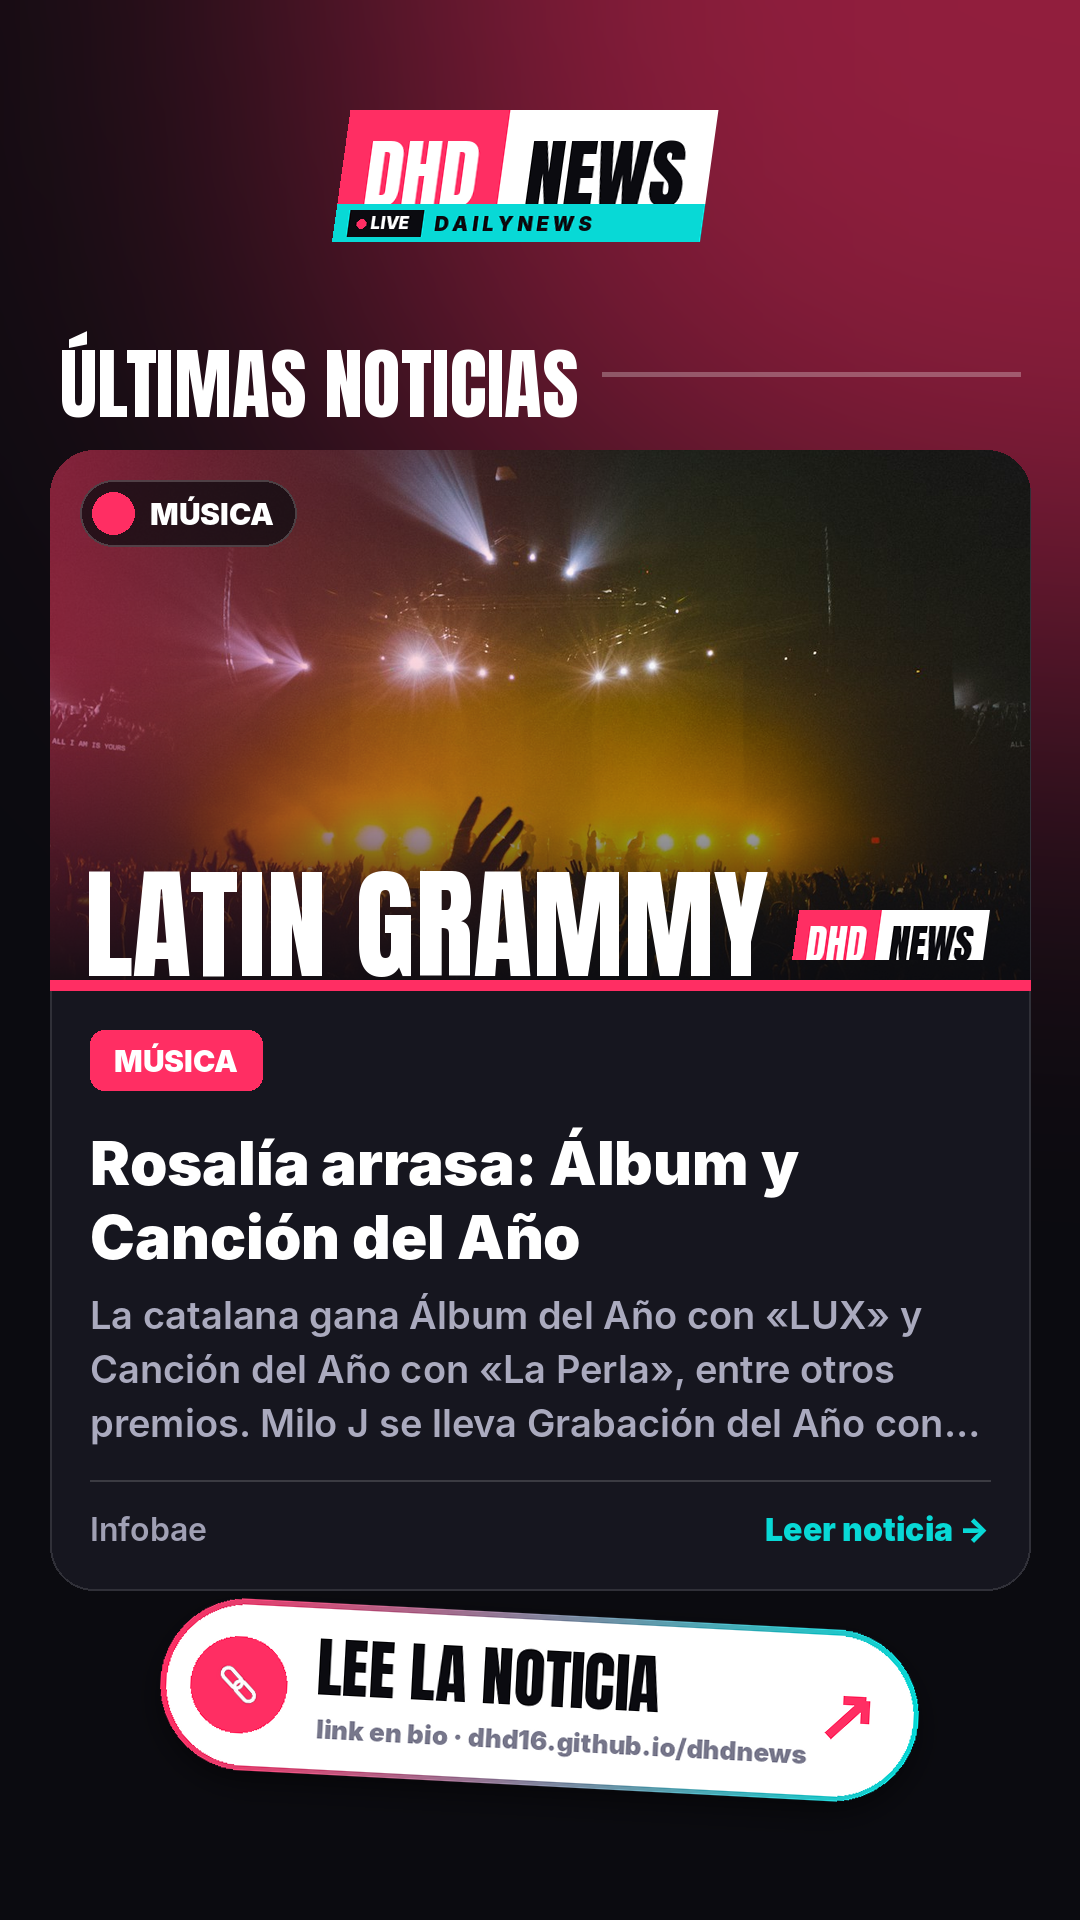
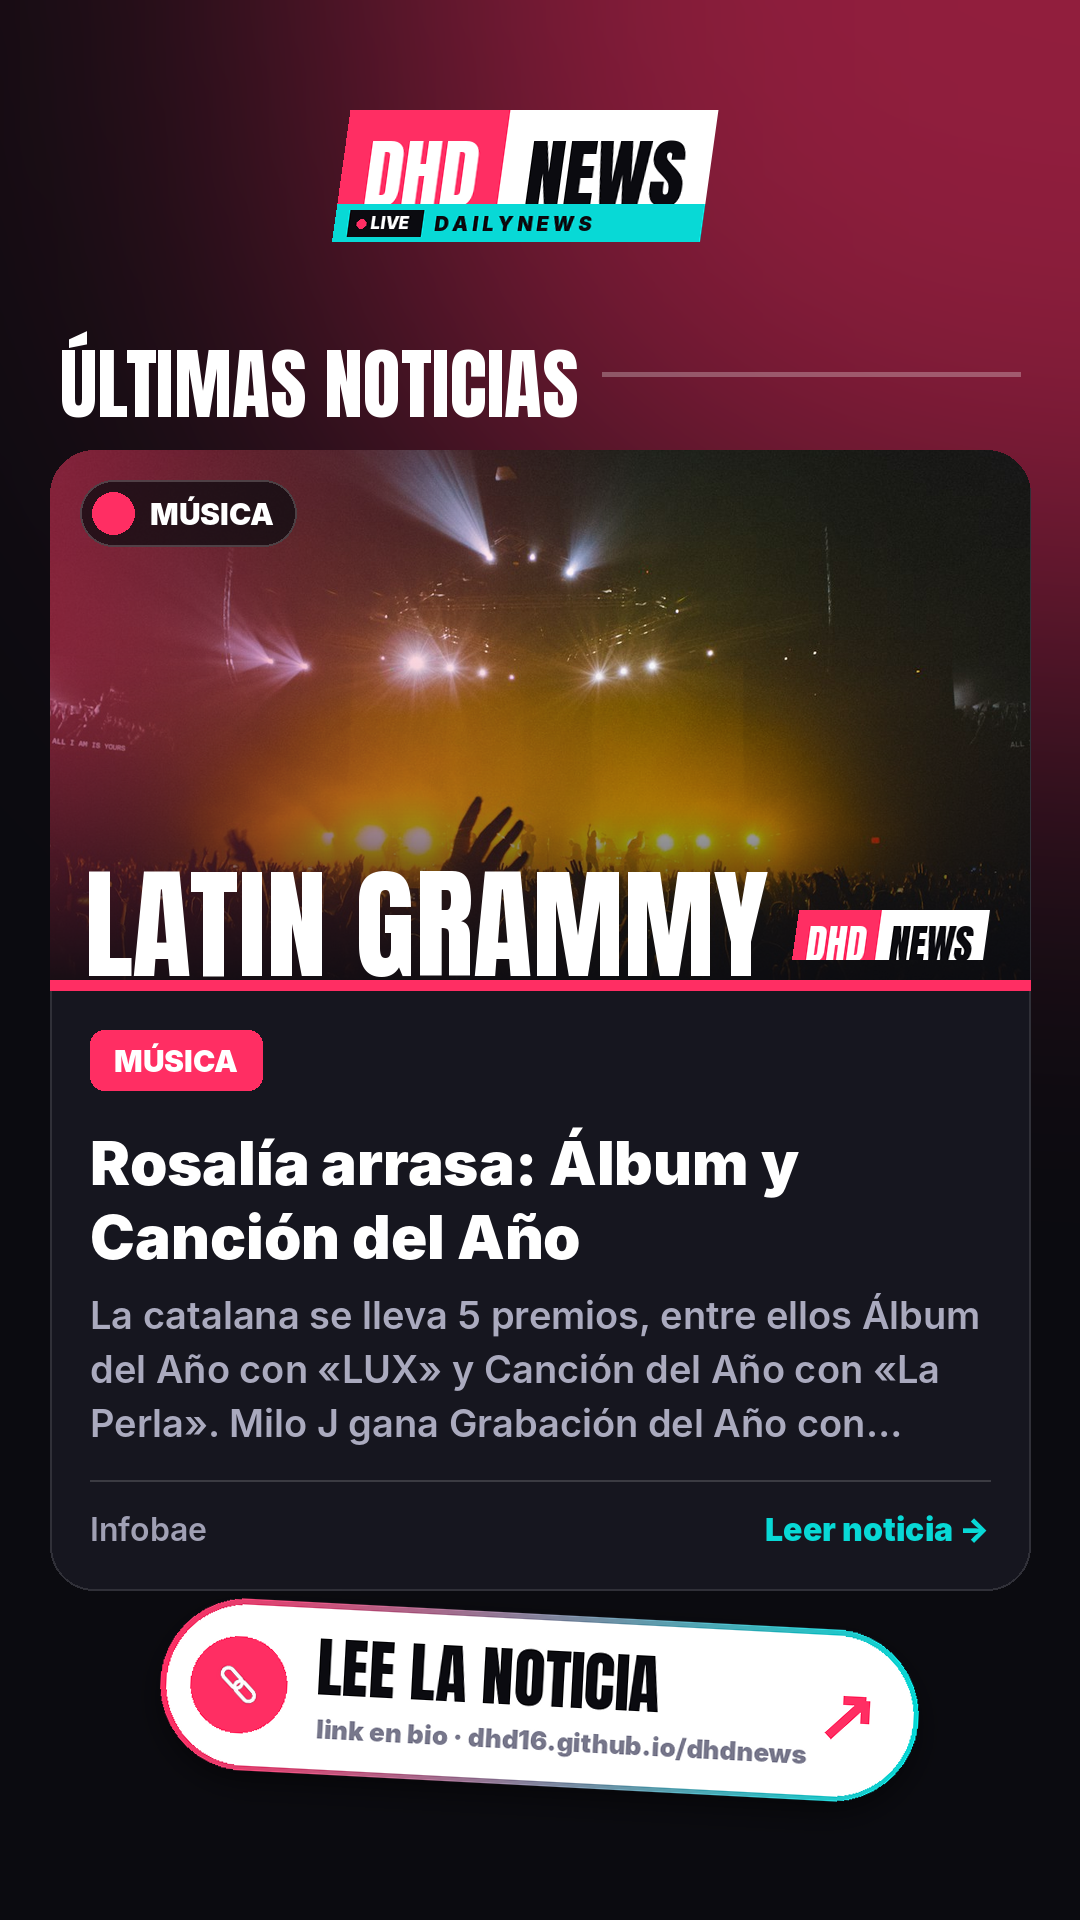
Top 10 2026-11-13

Changed region(s): [[0.0917, 0.6562, 0.8861, 0.75]]

diff --git a/contenido/2026-11-13.md b/contenido/2026-11-13.md
@@ -1,0 +1,36 @@
+# DHDNEWS · Dailynews — 13/11/2026
+
+## Post de Instagram
+🏆 Rosalía arrasa en los Latin Grammy
+
+1⃣ 🎤 Rosalía: Álbum y Canción del Año con «LUX» y «La Perla»
+2⃣ 💻 Caída mundial de Microsoft: Outlook y Teams, KO
+3⃣ ⚽ España gana 0-2 en Praga y sigue con pleno
+4⃣ 🎶 Alejandro Sanz y Yerai Cortés, también premiados
+5⃣ 🌴 Coachella 2027, a la venta hoy con Bad Gyal
+6⃣ 🎮 GTA 6 ya se puede precargar: sale el 19
+7⃣ 📺 La Séptima cierra su 1ª semana con un 3,5%
+8⃣ 🎤 Stray Kids llenarán el Olímpic en 2027
+9⃣ 🕹 Adiós a la app de PS Plus para PC
+🔟 💍 Lambda García anuncia su compromiso
+
+Top 10 completo: link en bio 👉 dhd16.github.io/dhdnews
+
+#DHDNEWS #noticias #LatinGrammy #Rosalia #LUX #Microsoft #GTA6 #LaRoja #Coachella #LaSeptima #musica #gaming
+
+## Carrusel de TikTok (10:42, 8 fotos)
+Título: Rosalía arrasa en los Latin Grammy 🏆
+Texto:
+Rosalía arrasa en los Latin Grammy 🏆 y Microsoft se cae en medio mundo.
+¿Cuál te ha sorprendido más? Comenta el número 👇
+Desliza para el top 5 · Top 10 completo: link en bio
+#DHDNEWS #noticias #LatinGrammy #Rosalia #Microsoft #GTA6
+
+## Guion vídeo resumen (45-60 s)
+- (0-5 s) "¡Rosalía arrasa en los Latin Grammy! Esto es DHDNEWS, tu top del viernes."
+- (5-15 s) "La catalana se lleva Álbum del Año con «LUX» y Canción del Año con «La Perla». Milo J gana Grabación del Año con «Niño» y Aria Vega, Mejor Nuevo Artista."
+- (15-23 s) "Caída mundial de Microsoft: Outlook, Teams y Copilot fallan desde el jueves en 74 países. Microsoft habla de recuperación gradual."
+- (23-30 s) "La Roja gana 0-2 en Praga y sigue con pleno en la Nations League."
+- (30-38 s) "Alejandro Sanz y Yerai Cortés también se llevan su Latin Grammy, y Bad Gyal estará en Coachella 2027: entradas hoy."
+- (38-48 s) "Y además: GTA 6 ya se puede precargar, La Séptima cierra su primera semana con un 3,5% y Stray Kids en el Olímpic en 2027."
+- (48-55 s) "¿Cuál te ha sorprendido más? Comenta el número. Top 10 completo, link en bio."
